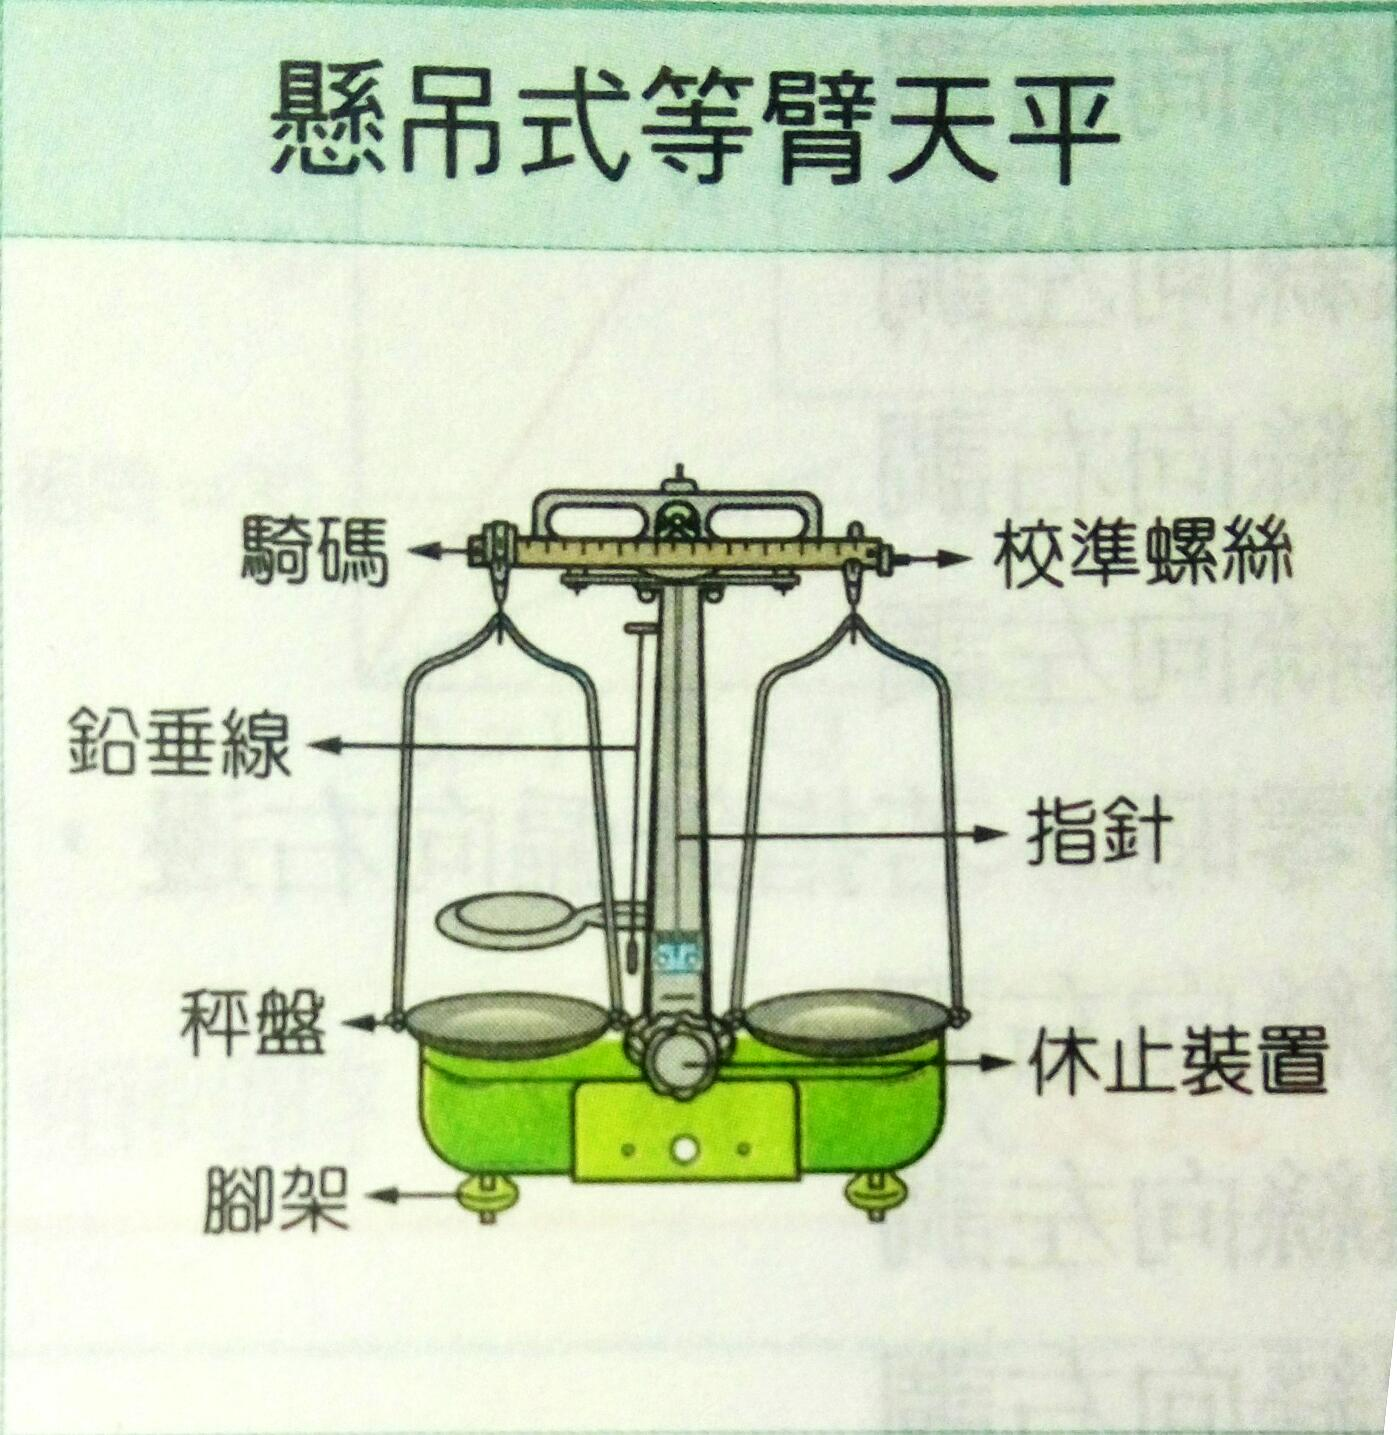
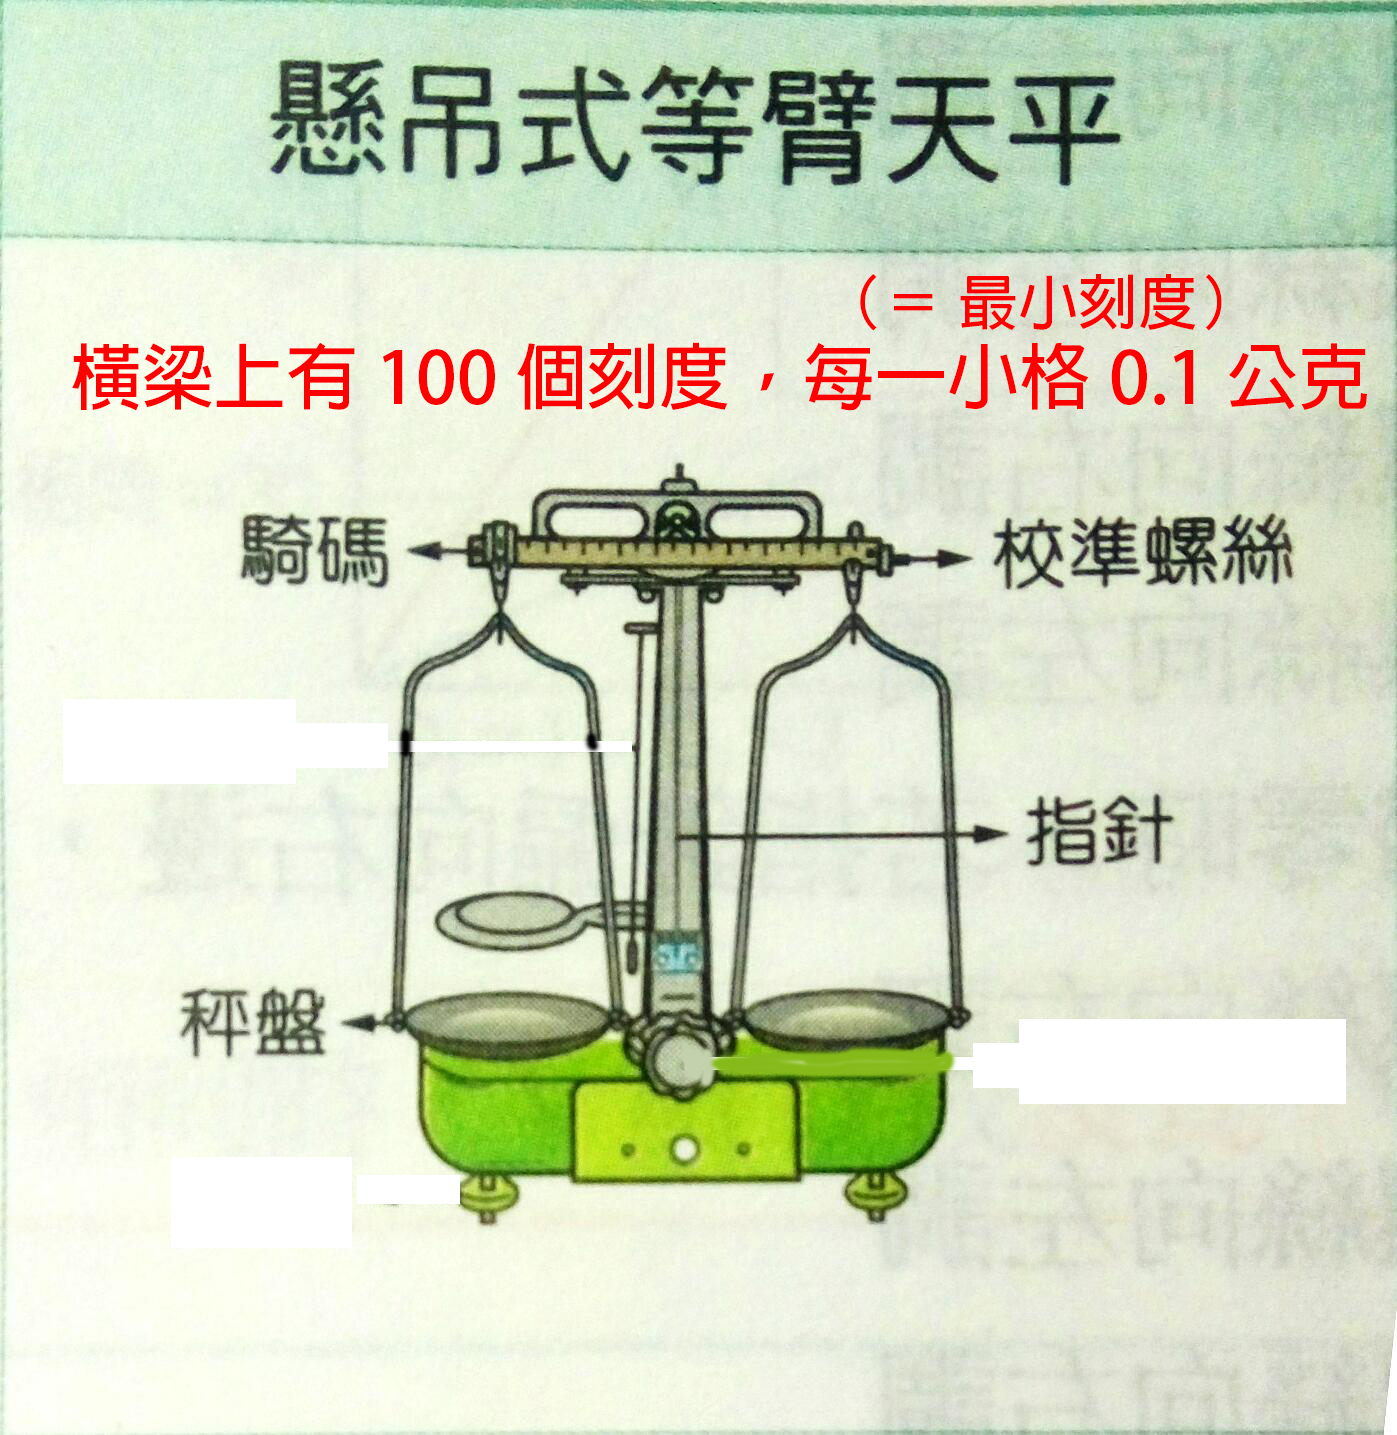
change pic

diff --git a/web/01.html b/web/01.html
@@ -107,15 +107,16 @@
 										<p><img src="images/B3-1-2/06.PNG" alt="Mountain View"  class = "align-center"></p>
 										<div>(1)將上皿天平擺放在水平桌面。</div>
 										<div>(2)移動校準螺絲歸零。</div>
-										<div>/Tip/若右盤較重，需將校準螺絲往左移動。</div>
+										<div>/Tip/若右盤較重，需將校準螺絲往左移動。</div>										
 										<div>(3)秤量物體時，待測物放左盤，砝碼放右盤。</div>
 										<div style="font-style:italic">註1：砝碼須以砝碼夾拿取，若以手拿取，可能會導致生鏽，增加誤差。</div>
 										<div style="font-style:italic">註2：砝碼從大到小逐步取用。</div>
+										<div>/Tip/左盤質量較大時，指針偏左。</div>
 										<div>(4)當指針停在正中央時，砝碼總質量=待測物質量</div>
 										<div>b. 懸掛式等臂天平</div>
-										<div>(1)基本構造：（圖片自良師講義翻拍）</div>
+										<div>(1)基本構造：（圖片自良師講義翻拍+自己編輯）</div>
 										<p><img src="images/B3-1-2/07.jpg" alt="Mountain View" width="40%" class = "align-left"></p>
-										<div></div>
+										<div>(2)</div>
 										<div></div>
 										<div></div>
 										<div></div>
